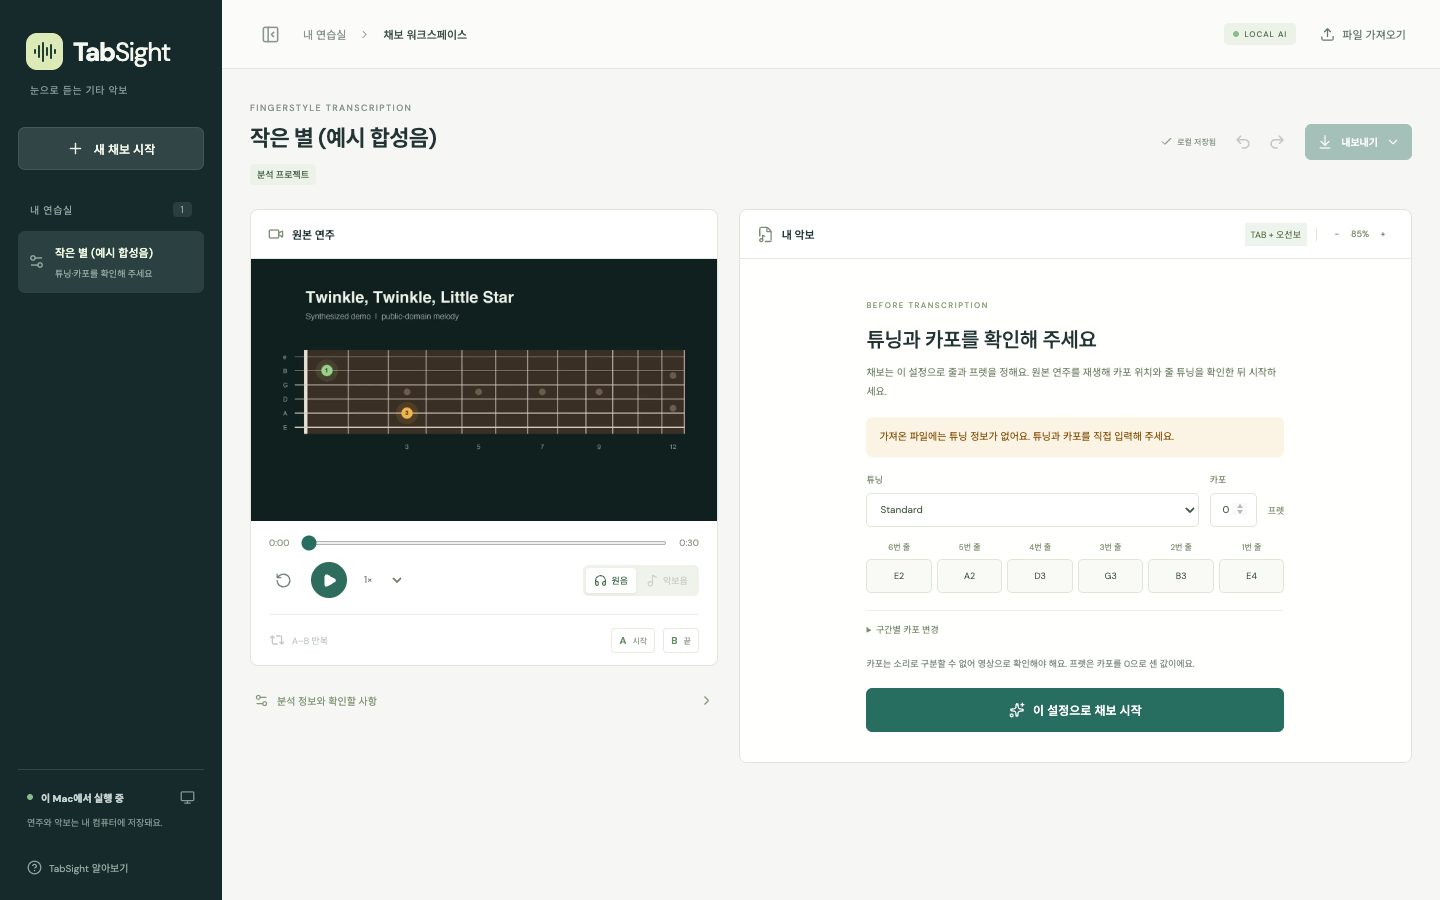
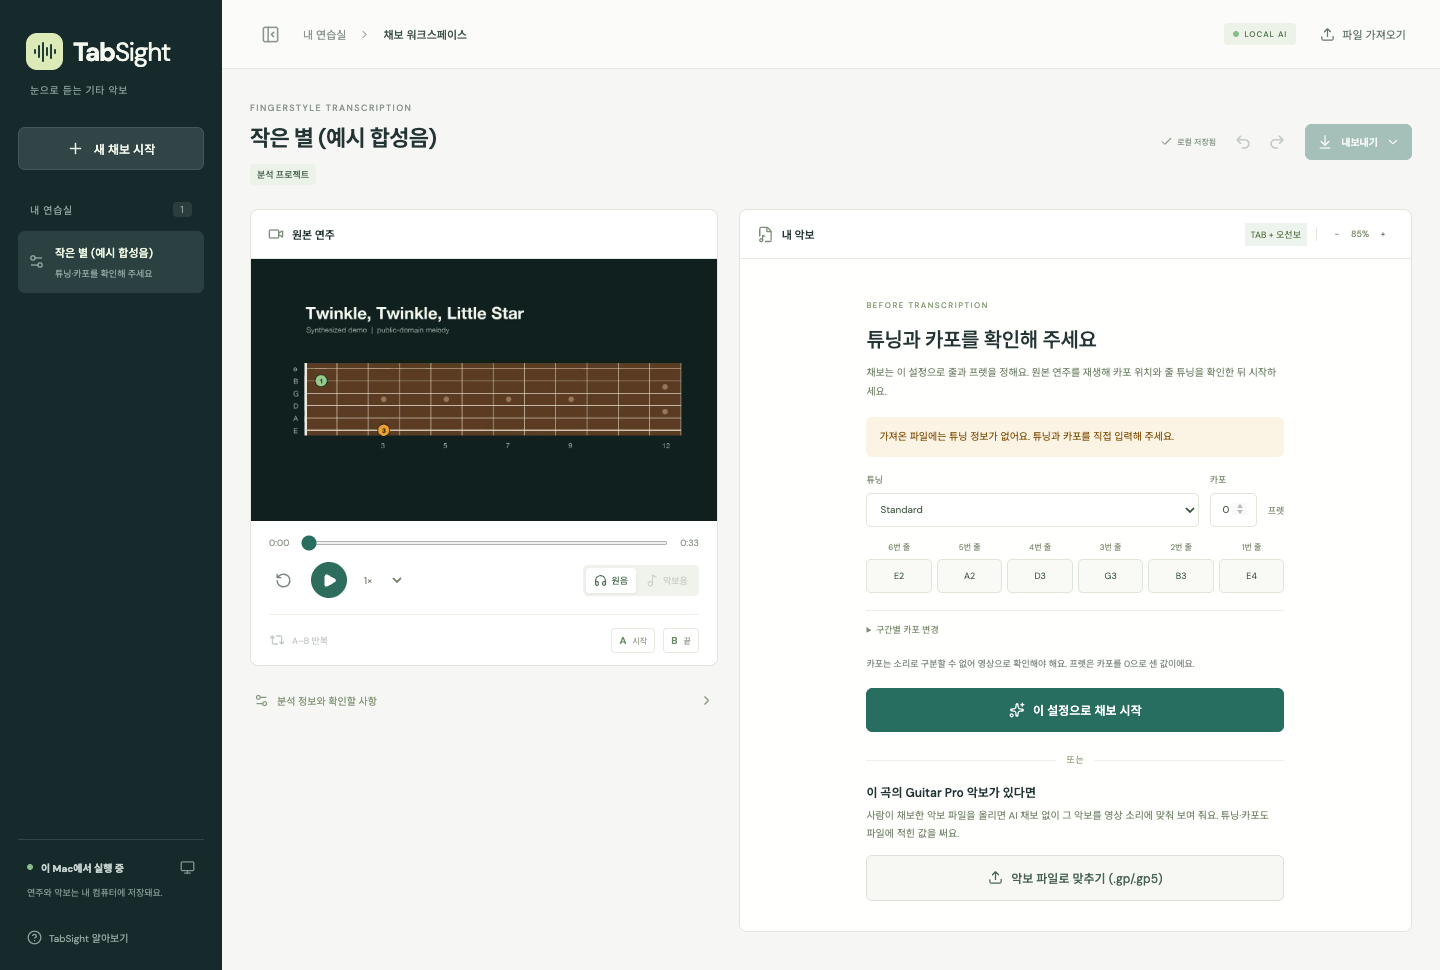
Document score sync on inserted playing and pauses, add screenshots
The docs said little about a performance that runs longer than its score. The validation doc now
records edits of one test recording around bar 40: a section played 1.5x slower is followed
(median 33 ms), while 5 s of playing that is not in the score leaves the five notes before it
shown late while it lasts (up to 5.1 s) and the rest at a median of 31 ms. 15 s does the same and
is wrongly flagged as not matching, and a 3 s pause shows the next six notes up to 2.3 s early.
The algorithms doc explains why (holding the score and holding the recording cost the same) and
names the change that could help: cheaper steps that hold the score while the recording goes on,
and near-silence treated as a pause. The quality limits say the same in short.

A Guitar Pro 7 file written by hand, synced to its recording, was judged reliable (contrast 0.21,
match 0.28); there is no ground truth to measure its error.

The tuning and capo check screenshot is retaken with the new score file button, and a new one
shows a synced score. Both come from the synthesized 'Twinkle, Twinkle, Little Star' demo, with a
GP5 file made from its notes; the README and the architecture doc show them.

diff --git a/docs/validation.md b/docs/validation.md
@@ -43,18 +43,29 @@ Guitar Pro 데스크톱 프로그램에서 직접 열어 확인한 결과는 아
 - 앞 두 줄 외에는 곡 A로 쟀고, 편곡 차이 줄은 곡 A / 곡 B의 값을 함께 적었다.
 - 2반음 낮은 녹음에서는 반음 이동 −2를, 30초를 덧붙인 녹음에서는 악보 시작을 32.6초로 찾았다. 반복 구간의 두 번째 연주는 중앙값 47ms, 최대 0.10초였다.
 - GP7(`.gp`)로 변환한 같은 악보는 타임라인이 같았고 오차도 같았다.
-- 다른 곡의 악보를 맞춘 2개 조합은 모두 "잘 맞지 않음"(`reliable=false`)으로 판정했다. 맞는 조합은 모두 믿을 만함으로 판정했다.
+- 다른 곡의 악보를 맞춘 2개 조합은 모두 "잘 맞지 않음"(`reliable=false`)으로 판정했다. 위 표의 맞는 조합은 모두 믿을 만함으로 판정했다.
 - 곡당 계산 시간은 Apple Silicon에서 약 3~5초다.
+
+연주가 악보보다 길어지는 경우는 곡 A의 녹음에서 40마디 근처를 편집해 확인했다.
+
+| 녹음 편집 | 결과 |
+|---|---|
+| 40~44마디를 1.5배 느리게 | 따라감. 오차 중앙값 33ms, 그 구간 최대 0.94초 |
+| 40마디 앞에 악보에 없는 연주 5초 | 나머지는 중앙값 31ms. 끼어들기 직전의 음 5개가 끼어든 동안 늦게 표시됨(최대 5.1초) |
+| 같은 방식으로 15초 | 위와 같고, "잘 맞지 않음"으로 잘못 판정 |
+| 40마디 앞에서 3초 멈춤 | 멈춘 동안 다음 음 6개가 미리 표시됨(최대 2.3초) |
+
+같은 음을 느리게·길게 친 구간은 맞춘다. 악보에 없는 연주나 멈춤은 그 부분이 끝나면 다시 맞지만, 그동안 앞뒤 몇 음의 위치가 끼어든 길이만큼 어긋난다.
 
 화면과 API는 임시 데이터 폴더와 별도 서버로 확인했다(검사 스크립트는 저장소에 두지 않았다).
 
 - API 16개 항목: 형식이 다르거나 읽을 수 없는 파일 거절과 파일 정리, 올리기 후 싱크 완료, 파일 정보·튜닝 기록, 신뢰도 기록, AI 채보 데이터 없음, 고정점 증가, 목록의 싱크 표시, 원본 파일 그대로 제공, 편집 저장과 튜닝·카포 재계산 거절, 완료 후 다시 올리기 거절, 확인 단계로 돌아가기와 파일 튜닝 채우기.
 - Chrome 9개 항목: 확인 화면에서 올리기와 진행 화면, 편집 패널 없는 싱크 화면, 영상 30·75·120·170초와 재생 중에 커서 마디가 정답 마디와 일치, 악보 클릭 시 그 위치로 영상 이동, 악보음 재생 시 영상이 따라옴, 원본 악보 내려받기가 올린 파일과 같음, 악보 바꾸기, 반복 마디 클릭이 현재 위치에 가까운 연주 회차로 이동, 브라우저 예외 없음.
 
-이 결과는 녹음에서 채보한 음을 그대로 쓴 악보라 실제 손 악보보다 녹음과 가깝다. 편곡 차이는 무작위로 흉내 냈을 뿐이다. 사람이 만든 악보로 잰 결과는 아직 없다.
+이 결과는 녹음에서 채보한 음을 그대로 쓴 악보라 실제 손 악보보다 녹음과 가깝다. 편곡 차이는 무작위로 흉내 냈을 뿐이다. 사람이 만든 악보는 정답 시각이 없어 오차를 재지 못했다. 사람이 만든 GP7 악보 1곡으로 싱크했을 때는 "믿을 만함"(contrast 0.21, match 0.28)으로 판정됐다.
 
 ## 남아 있는 품질 한계
 
 **운지는 소리와 연주 가능성 규칙으로 추정한 값이다.** 같은 음높이를 여러 자리에서 낼 수 있어 연주자가 실제로 친 자리와 다를 수 있다. 영상의 손 위치로 이를 보정하던 기능은 측정에서 정확도를 높이지 못해 제거했다([알고리즘](algorithms.md) 6절). 튜닝·카포는 설명에서 읽거나 사용자가 채보 전에 입력한 값이며, 설명은 `Tuning:` 형식의 줄만 읽는다. 카포 변화와 변칙 튜닝을 소리나 영상으로 판별하지 못한다. 초기 박자는 4/4이며 음악적인 음가 정리가 필요하다. 특수 주법은 학습된 전문 분류기가 아닌 후보 규칙이다. 현재 결과는 손으로 다듬어 연습할 초안이고, 전체 악보 정확도나 수정 소요 시간을 보장하지 않는다.
 
-**악보 싱크는 음이름 흐름으로 맞춘 자동 결과다.** 같은 화음이 오래 이어지거나 한 음을 길게 끄는 구간 안에서는 위치가 조금 밀릴 수 있고, 연주가 반복을 더 하거나 빼는 등 악보와 구조가 다르면 그 근처가 틀어진다. 첫 기타 트랙만 표시·비교하며, 자동 결과를 손으로 고치는 기능은 없다. 악보음은 파일의 템포로 연주하므로 연주자의 빠르기와 다를 수 있다. "잘 맞지 않음" 판정 기준은 위의 몇 가지 조합으로 정한 값이다.
+**악보 싱크는 음이름 흐름으로 맞춘 자동 결과다.** 같은 화음이 오래 이어지거나 한 음을 길게 끄는 구간 안에서는 위치가 조금 밀릴 수 있고, 연주가 반복을 더 하거나 빼는 등 악보와 구조가 다르면 그 근처가 틀어진다. 악보에 없는 연주가 끼거나 연주가 멈추면 그동안 커서가 앞 음에 늦게 머물거나 다음 음으로 미리 넘어가며, 길게 끼면 "잘 맞지 않음"이 잘못 뜰 수 있다. 첫 기타 트랙만 표시·비교하며, 자동 결과를 손으로 고치는 기능은 없다. 악보음은 파일의 템포로 연주하므로 연주자의 빠르기와 다를 수 있다. "잘 맞지 않음" 판정 기준은 위의 몇 가지 조합으로 정한 값이다.

diff --git a/docs/architecture.md b/docs/architecture.md
@@ -48,11 +48,13 @@ flowchart TD
 - **3a. 악보 파일로 맞추기**: 확인 화면에서 GP 파일(.gp, .gpx, .gp5, .gp4, .gp3, 20MB 이하)을 올린다. 서버는 요청 안에서 Node와 alphaTab으로 파일을 읽어 연주 순서 타임라인을 만든다. 읽을 수 없거나 기타 트랙·음표가 없으면 바로 거절한다. 튜닝·카포는 파일 값으로 채우고 `queued`로 바꿔 준비 큐에 넣는다. 모델을 쓰지 않으므로 다른 곡의 채보를 기다리지 않는다.
 - **3b. 싱크**: 음성과 타임라인을 비교해 `[tick, 초]` 고정점을 만들고 몇 초 뒤 `ready`로 바꾼다. 4~6단계는 건너뛰며 AI 채보 결과는 남기지 않는다. 브라우저는 올린 파일을 그대로 받아 표시한다. 방법은 [알고리즘 문서](algorithms.md) 10절에 있다.
 
+![올린 악보를 영상에 맞춘 화면. 왼쪽에는 원본 영상과 올린 악보 정보(파일, 트랙, 튜닝, 카포)와 '악보 바꾸기 · AI 채보로 돌아가기' 버튼이, 오른쪽에는 올린 파일 그대로의 악보가 있고 파란 영역이 영상의 현재 위치인 3마디를 가리킨다.](images/score-sync.png)
+
 화면에서는 분석 과정을 영상 준비, 음표 추론, 운지 정리 세 단계로 묶어 진행률과 함께 보여 준다. 악보를 맞출 때는 영상 준비와 악보 맞추기 두 단계다. 영상 준비가 끝나면 진행 화면 대신 설정 확인 화면이 나타나고, 연습실 목록에는 `튜닝·카포를 확인해 주세요`가 표시된다.
 
 YouTube 곡은 영상을 내려받기 전까지 미디어 주소가 404를 돌려준다. 이때 만든 `video`는 오류 상태로 남아 다시 요청하지 않으므로, 준비 중에는 원본 영상 칸에 안내만 보이고 준비가 끝난 뒤 `video`를 만든다. 그래서 설정 확인 화면에서 새로고침 없이 영상을 재생할 수 있다. 가져온 영상·음성 파일은 프로젝트를 돌려주기 전에 저장·변환을 마치므로 처음부터 재생기를 만든다.
 
-![채보 전 튜닝·카포 확인 화면. 가져온 파일이라 튜닝 정보가 없다는 안내가 있고, Standard 튜닝과 카포 0을 입력해 채보 시작 버튼이 켜져 있다. 왼쪽 원본 영상은 재생할 수 있다.](images/settings-confirm.png)
+![채보 전 튜닝·카포 확인 화면. 가져온 파일이라 튜닝 정보가 없다는 안내가 있고, Standard 튜닝과 카포 0을 입력해 채보 시작 버튼이 켜져 있다. 그 아래에 Guitar Pro 악보 파일로 맞추는 버튼이 있다. 왼쪽 원본 영상은 재생할 수 있다.](images/settings-confirm.png)
 
 ![분석 중 화면. 음표 추론 단계에서 진행률 62%가 표시되어 있다.](images/analyzing.png)
 
